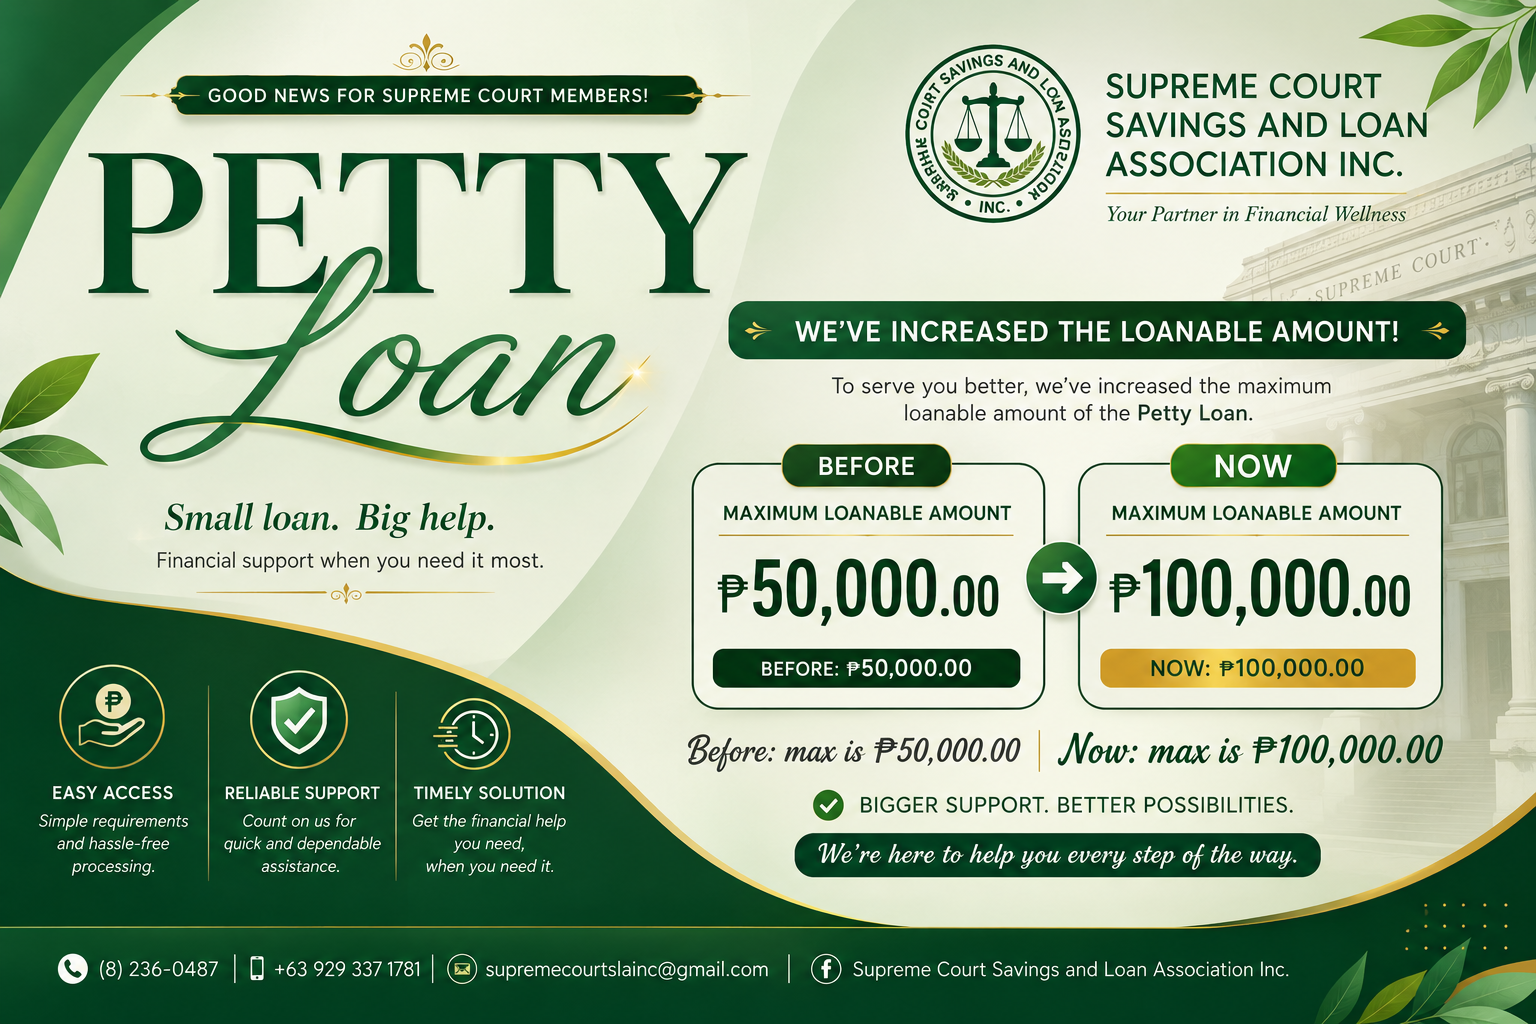
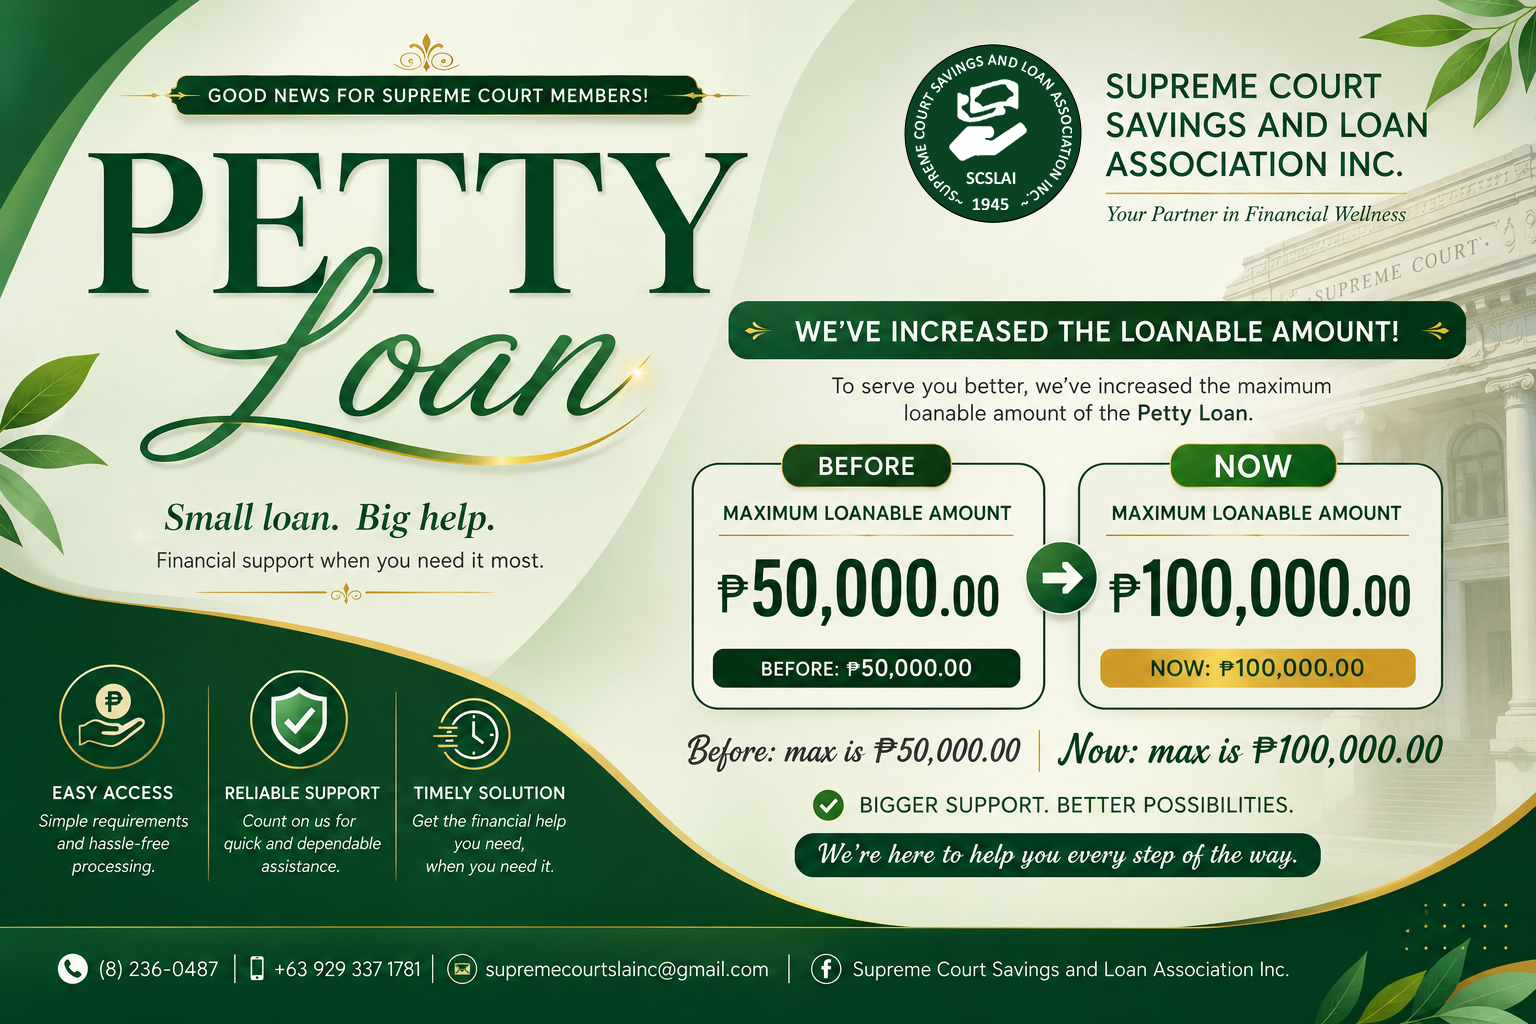
UIIIIIII ngani

Changed region(s): [[0.5938, 0.0312, 0.7188, 0.2188]]

diff --git a/FRONT/reports/2024-annual-report.html b/FRONT/reports/2024-annual-report.html
@@ -44,9 +44,13 @@
             <h1>2024 Treasurer's Report</h1>
             <p>Supreme Court Savings and Loan Association, Inc.</p>
             <div> 
-                <p class="description">
-                -------------------------------------------------------------------------------------------------------------------------------------------------------------------------------
-            </p>
+                <div>
+                    <h1 class="report-year">--------------------------------------------------------------------</h1>
+                </div>
+                <h3 class="description">
+                    The SCSLAI 2024 Treasurer’s Report presents an overview of the Association’s financial activities and financial position for the year 2024.   
+                    The report includes key financial statements, such as the Statement of Financial Position, Statement of Comprehensive Income, and Statement of Cash Flows, along with relevant notes and disclosures. It provides insights into the Association’s financial performance, liquidity, and overall financial health.
+                </h3>
             </div>
             
         </header>
@@ -439,15 +443,12 @@
             </p>
 
             <p>
-                At this point, I would like to express my deepest appreciation to all
-                those people who make every year of success a reality. That would be all,
-                and again, happy 80th anniversary to all of us! Maraming salamat po!
+                Maraming salamat po!
             </p>
 
             <div class="signature">
                 <h3>MA. LOURDES P. SERRANO</h3>
                 <p>SCSLA Corporate Treasurer</p>
-                <p>2025–2026</p>
             </div>
 
         </section>

diff --git a/FRONT/index.html b/FRONT/index.html
@@ -68,7 +68,11 @@
                                 <div class="slide-caption">LOANS</div>
                             </div>
                             <div class="carousel-slide">
-                                <img src="images/carousel/EDU.png" alt="Featured slide 3">
+                                <img src="images/carousel/EDU1.png" alt="Featured slide 3">
+                                <div class="slide-caption">LOANS</div>
+                            </div>
+                            <div class="carousel-slide">
+                                <img src="images/carousel/STD-4.png" alt="Featured slide 3">
                                 <div class="slide-caption">LOANS</div>
                             </div>
                         </div>

diff --git a/FRONT/script.js b/FRONT/script.js
@@ -727,7 +727,7 @@ const announcementImages = [
   {src: 'images/Annoncements/calamity-loan-2.png', alt: 'Final Educational Poster'},
   {src: 'images/Annoncements/Authority-to-deduct.jpg', alt: 'Announcement 1'},
   {src: 'images/Annoncements/TLA.jpg', alt: 'Announcement 3'},
-  {src: 'images/Annoncements/STD-2.png', alt: 'Announcement 2'},
+  {src: 'images/Annoncements/STD-FINAL.png', alt: 'Announcement 2'},
   {src: 'images/Annoncements/anniv.png', alt: 'ANNIVERSARY'}
 ];
 const announcementImg = document.querySelector('.announcement-posters img');

diff --git a/FRONT/style.css b/FRONT/style.css
@@ -3543,9 +3543,9 @@ body.calculator-modal-open{
 }
 
 .contact-card-icon svg{
-    width:24px;
-    height:24px;
-    fill:#0f110f;
+    width:40px;
+    height:40px;
+    fill:#024730e8;
 }
 
 .contact-card-body h2{
